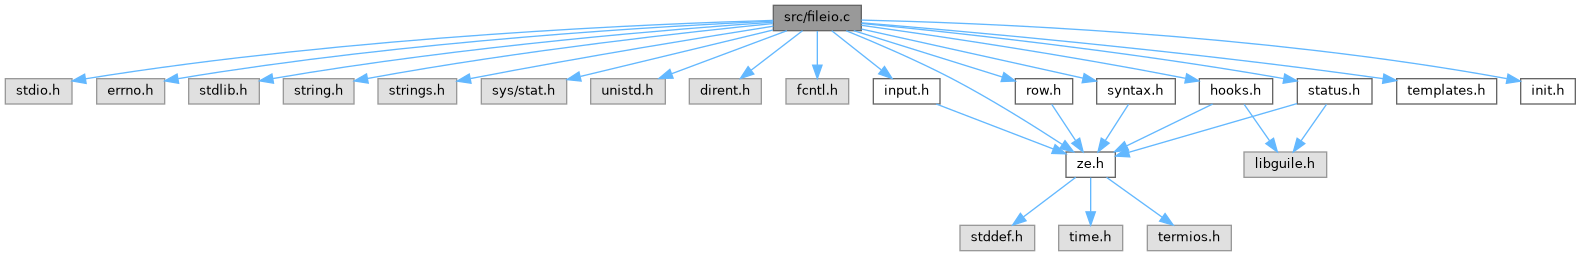
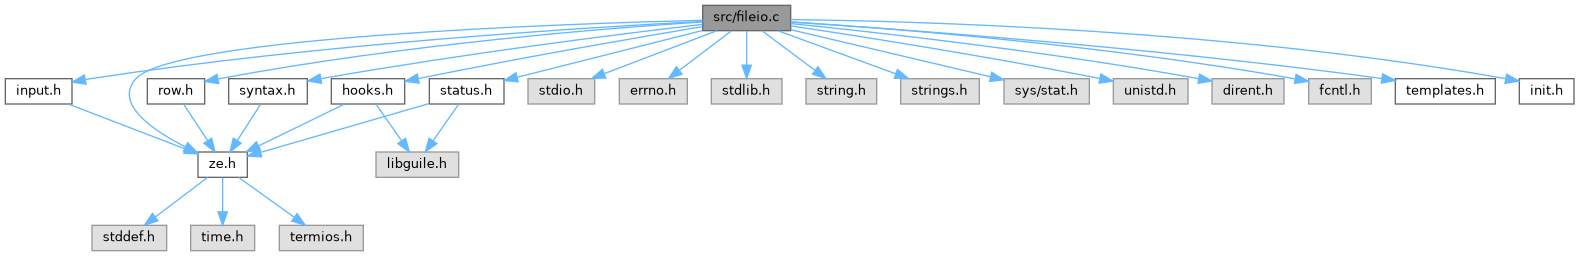
Update Doxygen docs [skip ci]

diff --git a/docs/plugins_8h_source.html b/docs/plugins_8h_source.html
@@ -126,41 +126,41 @@ $(document).ready(function() { init_codefold(0); });
 <div class="line"><a id="l00049" name="l00049"></a><span class="lineno">   49</span> </div>
 <div class="line"><a id="l00050" name="l00050"></a><span class="lineno">   50</span>SCM <a class="code hl_function" href="group__plugins.html#ga55ad8c5cfa0f6c6eb6870755911782b2">pluginsGetHook</a>(<span class="keyword">const</span> <span class="keywordtype">char</span> *name);</div>
 <div class="line"><a id="l00051" name="l00051"></a><span class="lineno">   51</span> </div>
-<div class="ttc" id="agroup__plugins_html_ga041060924a4b1414cf6c0e125d02b08d"><div class="ttname"><a href="group__plugins.html#ga041060924a4b1414cf6c0e125d02b08d">scmSetBufferDirty</a></div><div class="ttdeci">SCM scmSetBufferDirty(SCM bool_scm)</div><div class="ttdoc">Mark the current buffer dirty/clean.</div><div class="ttdef"><b>Definition</b> plugins.c:652</div></div>
-<div class="ttc" id="agroup__plugins_html_ga0607204678802489858c34b3e4862c46"><div class="ttname"><a href="group__plugins.html#ga0607204678802489858c34b3e4862c46">scmListBindings</a></div><div class="ttdeci">SCM scmListBindings(void)</div><div class="ttdoc">List all key bindings.</div><div class="ttdef"><b>Definition</b> plugins.c:621</div></div>
-<div class="ttc" id="agroup__plugins_html_ga0c41183a4c941f3e63462920444c932d"><div class="ttname"><a href="group__plugins.html#ga0c41183a4c941f3e63462920444c932d">loadPlugins</a></div><div class="ttdeci">void loadPlugins(void)</div><div class="ttdoc">Load Scheme plugins from &quot;$HOME/.ze/plugins&quot; (all .scm files).</div><div class="ttdef"><b>Definition</b> plugins.c:103</div></div>
-<div class="ttc" id="agroup__plugins_html_ga13b255733769c711c3ba2de6cb05fdf7"><div class="ttname"><a href="group__plugins.html#ga13b255733769c711c3ba2de6cb05fdf7">scmInsertNewline</a></div><div class="ttdeci">SCM scmInsertNewline(void)</div><div class="ttdoc">Insert a newline at the cursor position.</div><div class="ttdef"><b>Definition</b> plugins.c:367</div></div>
-<div class="ttc" id="agroup__plugins_html_ga17dcd73112f11fba64f052bea30524c0"><div class="ttname"><a href="group__plugins.html#ga17dcd73112f11fba64f052bea30524c0">scmRefreshScreen</a></div><div class="ttdeci">SCM scmRefreshScreen(void)</div><div class="ttdoc">Force a screen refresh.</div><div class="ttdef"><b>Definition</b> plugins.c:524</div></div>
-<div class="ttc" id="agroup__plugins_html_ga183ef2478133b2631c58a2381e036b2a"><div class="ttname"><a href="group__plugins.html#ga183ef2478133b2631c58a2381e036b2a">scmCloneTemplate</a></div><div class="ttdeci">SCM scmCloneTemplate(void)</div><div class="ttdoc">Clone a template into the current buffer (interactive selection).</div><div class="ttdef"><b>Definition</b> plugins.c:665</div></div>
-<div class="ttc" id="agroup__plugins_html_ga1edf3aea9100dc47ec938734b1b81a4a"><div class="ttname"><a href="group__plugins.html#ga1edf3aea9100dc47ec938734b1b81a4a">scmScreenSize</a></div><div class="ttdeci">SCM scmScreenSize(void)</div><div class="ttdoc">Get the editor screen size in rows and columns.</div><div class="ttdef"><b>Definition</b> plugins.c:441</div></div>
-<div class="ttc" id="agroup__plugins_html_ga231ec3ab638c187365338c11e8be381b"><div class="ttname"><a href="group__plugins.html#ga231ec3ab638c187365338c11e8be381b">scmPrompt</a></div><div class="ttdeci">SCM scmPrompt(SCM msg_scm)</div><div class="ttdoc">Prompt the user and return their input.</div><div class="ttdef"><b>Definition</b> plugins.c:508</div></div>
-<div class="ttc" id="agroup__plugins_html_ga2c36144573bc2bcce539f0df181507ea"><div class="ttname"><a href="group__plugins.html#ga2c36144573bc2bcce539f0df181507ea">scmInsertChar</a></div><div class="ttdeci">SCM scmInsertChar(SCM ch_scm)</div><div class="ttdoc">Insert a single character at the cursor.</div><div class="ttdef"><b>Definition</b> plugins.c:349</div></div>
-<div class="ttc" id="agroup__plugins_html_ga2c4d4c699c6bde194c2f057be465f8ee"><div class="ttname"><a href="group__plugins.html#ga2c4d4c699c6bde194c2f057be465f8ee">scmDeleteLine</a></div><div class="ttdeci">SCM scmDeleteLine(SCM idx_scm)</div><div class="ttdoc">Delete a line by index.</div><div class="ttdef"><b>Definition</b> plugins.c:318</div></div>
-<div class="ttc" id="agroup__plugins_html_ga310f0958617de3a98e9defba9f8ab526"><div class="ttname"><a href="group__plugins.html#ga310f0958617de3a98e9defba9f8ab526">scmGetFilename</a></div><div class="ttdeci">SCM scmGetFilename(void)</div><div class="ttdoc">Get the current filename, if any.</div><div class="ttdef"><b>Definition</b> plugins.c:478</div></div>
-<div class="ttc" id="agroup__plugins_html_ga33b71b39959b659f92fa10a9491ea598"><div class="ttname"><a href="group__plugins.html#ga33b71b39959b659f92fa10a9491ea598">scmSaveFile</a></div><div class="ttdeci">SCM scmSaveFile(void)</div><div class="ttdoc">Save the current buffer to disk.</div><div class="ttdef"><b>Definition</b> plugins.c:467</div></div>
-<div class="ttc" id="agroup__plugins_html_ga34a1e8f1812781918d98229fc7a76987"><div class="ttname"><a href="group__plugins.html#ga34a1e8f1812781918d98229fc7a76987">scmBufferDirty</a></div><div class="ttdeci">SCM scmBufferDirty(void)</div><div class="ttdoc">Check whether the current buffer has unsaved changes.</div><div class="ttdef"><b>Definition</b> plugins.c:641</div></div>
-<div class="ttc" id="agroup__plugins_html_ga3d7df946c05cbaf4d07dbf89ef6c1ffd"><div class="ttname"><a href="group__plugins.html#ga3d7df946c05cbaf4d07dbf89ef6c1ffd">scmInsertText</a></div><div class="ttdeci">SCM scmInsertText(SCM str_scm)</div><div class="ttdoc">Insert text at the cursor position, interpreting newlines.</div><div class="ttdef"><b>Definition</b> plugins.c:332</div></div>
-<div class="ttc" id="agroup__plugins_html_ga55ad8c5cfa0f6c6eb6870755911782b2"><div class="ttname"><a href="group__plugins.html#ga55ad8c5cfa0f6c6eb6870755911782b2">pluginsGetHook</a></div><div class="ttdeci">SCM pluginsGetHook(const char *name)</div><div class="ttdoc">Fetch a registered hook by name.</div><div class="ttdef"><b>Definition</b> plugins.c:46</div></div>
-<div class="ttc" id="agroup__plugins_html_ga5b19ed9dc86e9349aea7edb142707c85"><div class="ttname"><a href="group__plugins.html#ga5b19ed9dc86e9349aea7edb142707c85">scmGetCursor</a></div><div class="ttdeci">SCM scmGetCursor(void)</div><div class="ttdoc">Get current cursor position.</div><div class="ttdef"><b>Definition</b> plugins.c:391</div></div>
-<div class="ttc" id="agroup__plugins_html_ga67a6b5a73e98c291053d41270dc10410"><div class="ttname"><a href="group__plugins.html#ga67a6b5a73e98c291053d41270dc10410">scmDeleteChar</a></div><div class="ttdeci">SCM scmDeleteChar(void)</div><div class="ttdoc">Delete the character to the left of the cursor (backspace).</div><div class="ttdef"><b>Definition</b> plugins.c:378</div></div>
-<div class="ttc" id="agroup__plugins_html_ga70626d22f31d26519307f660719bc119"><div class="ttname"><a href="group__plugins.html#ga70626d22f31d26519307f660719bc119">scmSelectSyntaxForFilename</a></div><div class="ttdeci">SCM scmSelectSyntaxForFilename(SCM path_scm)</div><div class="ttdoc">Select syntax based on a filename, without opening the file.</div><div class="ttdef"><b>Definition</b> plugins.c:571</div></div>
-<div class="ttc" id="agroup__plugins_html_ga7136f43e2b0916468437bd7a90e3013a"><div class="ttname"><a href="group__plugins.html#ga7136f43e2b0916468437bd7a90e3013a">scmInsertLine</a></div><div class="ttdeci">SCM scmInsertLine(SCM idx_scm, SCM str_scm)</div><div class="ttdoc">Insert a new line at index.</div><div class="ttdef"><b>Definition</b> plugins.c:287</div></div>
-<div class="ttc" id="agroup__plugins_html_ga81a03f34f4c9c7c7dc62a6bcf4a83433"><div class="ttname"><a href="group__plugins.html#ga81a03f34f4c9c7c7dc62a6bcf4a83433">editorExec</a></div><div class="ttdeci">void editorExec(void)</div><div class="ttdoc">Prompt for and evaluate a single Scheme expression (mini-REPL).</div><div class="ttdef"><b>Definition</b> plugins.c:189</div></div>
-<div class="ttc" id="agroup__plugins_html_ga97dbf8cfed087644e55626ab597346db"><div class="ttname"><a href="group__plugins.html#ga97dbf8cfed087644e55626ab597346db">scmGetLine</a></div><div class="ttdeci">SCM scmGetLine(SCM idx_scm)</div><div class="ttdoc">Get the contents of a line by index.</div><div class="ttdef"><b>Definition</b> plugins.c:255</div></div>
-<div class="ttc" id="agroup__plugins_html_ga9a3b3ed20db9e516ca5ae1ca448a578e"><div class="ttname"><a href="group__plugins.html#ga9a3b3ed20db9e516ca5ae1ca448a578e">scmSetLine</a></div><div class="ttdeci">SCM scmSetLine(SCM idx_scm, SCM str_scm)</div><div class="ttdoc">Replace the contents of a line.</div><div class="ttdef"><b>Definition</b> plugins.c:270</div></div>
-<div class="ttc" id="agroup__plugins_html_gaa501599374f6c5187e4770a4b760c4ed"><div class="ttname"><a href="group__plugins.html#gaa501599374f6c5187e4770a4b760c4ed">scmUnbindKey</a></div><div class="ttdeci">SCM scmUnbindKey(SCM keySpec)</div><div class="ttdoc">Remove a key binding.</div><div class="ttdef"><b>Definition</b> plugins.c:602</div></div>
-<div class="ttc" id="agroup__plugins_html_gaa8b6e25318fa2cf14ea511928bc100c0"><div class="ttname"><a href="group__plugins.html#gaa8b6e25318fa2cf14ea511928bc100c0">scmGetFiletype</a></div><div class="ttdeci">SCM scmGetFiletype(void)</div><div class="ttdoc">Get the current filetype name from syntax highlighting.</div><div class="ttdef"><b>Definition</b> plugins.c:588</div></div>
-<div class="ttc" id="agroup__plugins_html_gaac9a1f510aed1700b69b7ee26008644e"><div class="ttname"><a href="group__plugins.html#gaac9a1f510aed1700b69b7ee26008644e">scmSetCursor</a></div><div class="ttdeci">SCM scmSetCursor(SCM x_scm, SCM y_scm)</div><div class="ttdoc">Set cursor position, clamped to the current buffer.</div><div class="ttdef"><b>Definition</b> plugins.c:405</div></div>
-<div class="ttc" id="agroup__plugins_html_gab22cf02cb210d5ac42ee7280cd84c626"><div class="ttname"><a href="group__plugins.html#gab22cf02cb210d5ac42ee7280cd84c626">scmBufferLineCount</a></div><div class="ttdeci">SCM scmBufferLineCount(void)</div><div class="ttdoc">Get the number of lines in the current buffer.</div><div class="ttdef"><b>Definition</b> plugins.c:244</div></div>
-<div class="ttc" id="agroup__plugins_html_gab6d3d4f4b9933a94daf1adcb0c7131f7"><div class="ttname"><a href="group__plugins.html#gab6d3d4f4b9933a94daf1adcb0c7131f7">scmSearchForward</a></div><div class="ttdeci">SCM scmSearchForward(SCM query_scm)</div><div class="ttdoc">Search forward for a substring and jump to the next match.</div><div class="ttdef"><b>Definition</b> plugins.c:538</div></div>
-<div class="ttc" id="agroup__plugins_html_gaca2d090eee1a15a36b8a986b7f7d14c9"><div class="ttname"><a href="group__plugins.html#gaca2d090eee1a15a36b8a986b7f7d14c9">scmAppendLine</a></div><div class="ttdeci">SCM scmAppendLine(SCM str_scm)</div><div class="ttdoc">Append a new line at the end of the buffer.</div><div class="ttdef"><b>Definition</b> plugins.c:304</div></div>
-<div class="ttc" id="agroup__plugins_html_gadcc5eb3464a4ddea9613f4b2e744f05b"><div class="ttname"><a href="group__plugins.html#gadcc5eb3464a4ddea9613f4b2e744f05b">scmSetFilename</a></div><div class="ttdeci">SCM scmSetFilename(SCM path_scm)</div><div class="ttdoc">Set the current filename and reselect syntax highlighting.</div><div class="ttdef"><b>Definition</b> plugins.c:490</div></div>
-<div class="ttc" id="agroup__plugins_html_gade7ce76f0f95afe9a6aa8f4547a2edd4"><div class="ttname"><a href="group__plugins.html#gade7ce76f0f95afe9a6aa8f4547a2edd4">scmOpenFile</a></div><div class="ttdeci">SCM scmOpenFile(SCM path_scm)</div><div class="ttdoc">Open a file into the editor.</div><div class="ttdef"><b>Definition</b> plugins.c:454</div></div>
-<div class="ttc" id="agroup__plugins_html_gadf73418325c779010cb9f90f6ed8b8ea"><div class="ttname"><a href="group__plugins.html#gadf73418325c779010cb9f90f6ed8b8ea">scmMoveCursor</a></div><div class="ttdeci">SCM scmMoveCursor(SCM dir_scm)</div><div class="ttdoc">Move the cursor in a direction.</div><div class="ttdef"><b>Definition</b> plugins.c:425</div></div>
-<div class="ttc" id="agroup__plugins_html_gae3a93a63cce39f220631f81e6d71c24e"><div class="ttname"><a href="group__plugins.html#gae3a93a63cce39f220631f81e6d71c24e">scmBufferToString</a></div><div class="ttdeci">SCM scmBufferToString(void)</div><div class="ttdoc">Return the entire buffer as a Scheme string.</div><div class="ttdef"><b>Definition</b> plugins.c:229</div></div>
-<div class="ttc" id="agroup__plugins_html_gae57a724800e6a1a17db4da6ddd2e4722"><div class="ttname"><a href="group__plugins.html#gae57a724800e6a1a17db4da6ddd2e4722">scmBindKey</a></div><div class="ttdeci">SCM scmBindKey(SCM keySpec, SCM proc)</div><div class="ttdoc">Bind a key specification to a Scheme procedure.</div><div class="ttdef"><b>Definition</b> plugins.c:138</div></div>
-<div class="ttc" id="agroup__plugins_html_gaf2c717f60b190173e56454ae476a4cf5"><div class="ttname"><a href="group__plugins.html#gaf2c717f60b190173e56454ae476a4cf5">initKeyBindings</a></div><div class="ttdeci">void initKeyBindings(void)</div><div class="ttdoc">Initialize the in-memory key binding table.</div><div class="ttdef"><b>Definition</b> plugins.c:92</div></div>
-<div class="ttc" id="agroup__plugins_html_gaf8a22c5f040f52588b876ddefd6ddd1a"><div class="ttname"><a href="group__plugins.html#gaf8a22c5f040f52588b876ddefd6ddd1a">pluginsHandleKey</a></div><div class="ttdeci">int pluginsHandleKey(unsigned char code)</div><div class="ttdoc">If a Scheme binding exists for the key, invoke it.</div><div class="ttdef"><b>Definition</b> plugins.c:79</div></div>
+<div class="ttc" id="agroup__plugins_html_ga041060924a4b1414cf6c0e125d02b08d"><div class="ttname"><a href="group__plugins.html#ga041060924a4b1414cf6c0e125d02b08d">scmSetBufferDirty</a></div><div class="ttdeci">SCM scmSetBufferDirty(SCM bool_scm)</div><div class="ttdoc">Mark the current buffer dirty/clean.</div><div class="ttdef"><b>Definition</b> plugins.c:651</div></div>
+<div class="ttc" id="agroup__plugins_html_ga0607204678802489858c34b3e4862c46"><div class="ttname"><a href="group__plugins.html#ga0607204678802489858c34b3e4862c46">scmListBindings</a></div><div class="ttdeci">SCM scmListBindings(void)</div><div class="ttdoc">List all key bindings.</div><div class="ttdef"><b>Definition</b> plugins.c:620</div></div>
+<div class="ttc" id="agroup__plugins_html_ga0c41183a4c941f3e63462920444c932d"><div class="ttname"><a href="group__plugins.html#ga0c41183a4c941f3e63462920444c932d">loadPlugins</a></div><div class="ttdeci">void loadPlugins(void)</div><div class="ttdoc">Load Scheme plugins from &quot;$HOME/.ze/plugins&quot; (all .scm files).</div><div class="ttdef"><b>Definition</b> plugins.c:102</div></div>
+<div class="ttc" id="agroup__plugins_html_ga13b255733769c711c3ba2de6cb05fdf7"><div class="ttname"><a href="group__plugins.html#ga13b255733769c711c3ba2de6cb05fdf7">scmInsertNewline</a></div><div class="ttdeci">SCM scmInsertNewline(void)</div><div class="ttdoc">Insert a newline at the cursor position.</div><div class="ttdef"><b>Definition</b> plugins.c:366</div></div>
+<div class="ttc" id="agroup__plugins_html_ga17dcd73112f11fba64f052bea30524c0"><div class="ttname"><a href="group__plugins.html#ga17dcd73112f11fba64f052bea30524c0">scmRefreshScreen</a></div><div class="ttdeci">SCM scmRefreshScreen(void)</div><div class="ttdoc">Force a screen refresh.</div><div class="ttdef"><b>Definition</b> plugins.c:523</div></div>
+<div class="ttc" id="agroup__plugins_html_ga183ef2478133b2631c58a2381e036b2a"><div class="ttname"><a href="group__plugins.html#ga183ef2478133b2631c58a2381e036b2a">scmCloneTemplate</a></div><div class="ttdeci">SCM scmCloneTemplate(void)</div><div class="ttdoc">Clone a template into the current buffer (interactive selection).</div><div class="ttdef"><b>Definition</b> plugins.c:664</div></div>
+<div class="ttc" id="agroup__plugins_html_ga1edf3aea9100dc47ec938734b1b81a4a"><div class="ttname"><a href="group__plugins.html#ga1edf3aea9100dc47ec938734b1b81a4a">scmScreenSize</a></div><div class="ttdeci">SCM scmScreenSize(void)</div><div class="ttdoc">Get the editor screen size in rows and columns.</div><div class="ttdef"><b>Definition</b> plugins.c:440</div></div>
+<div class="ttc" id="agroup__plugins_html_ga231ec3ab638c187365338c11e8be381b"><div class="ttname"><a href="group__plugins.html#ga231ec3ab638c187365338c11e8be381b">scmPrompt</a></div><div class="ttdeci">SCM scmPrompt(SCM msg_scm)</div><div class="ttdoc">Prompt the user and return their input.</div><div class="ttdef"><b>Definition</b> plugins.c:507</div></div>
+<div class="ttc" id="agroup__plugins_html_ga2c36144573bc2bcce539f0df181507ea"><div class="ttname"><a href="group__plugins.html#ga2c36144573bc2bcce539f0df181507ea">scmInsertChar</a></div><div class="ttdeci">SCM scmInsertChar(SCM ch_scm)</div><div class="ttdoc">Insert a single character at the cursor.</div><div class="ttdef"><b>Definition</b> plugins.c:348</div></div>
+<div class="ttc" id="agroup__plugins_html_ga2c4d4c699c6bde194c2f057be465f8ee"><div class="ttname"><a href="group__plugins.html#ga2c4d4c699c6bde194c2f057be465f8ee">scmDeleteLine</a></div><div class="ttdeci">SCM scmDeleteLine(SCM idx_scm)</div><div class="ttdoc">Delete a line by index.</div><div class="ttdef"><b>Definition</b> plugins.c:317</div></div>
+<div class="ttc" id="agroup__plugins_html_ga310f0958617de3a98e9defba9f8ab526"><div class="ttname"><a href="group__plugins.html#ga310f0958617de3a98e9defba9f8ab526">scmGetFilename</a></div><div class="ttdeci">SCM scmGetFilename(void)</div><div class="ttdoc">Get the current filename, if any.</div><div class="ttdef"><b>Definition</b> plugins.c:477</div></div>
+<div class="ttc" id="agroup__plugins_html_ga33b71b39959b659f92fa10a9491ea598"><div class="ttname"><a href="group__plugins.html#ga33b71b39959b659f92fa10a9491ea598">scmSaveFile</a></div><div class="ttdeci">SCM scmSaveFile(void)</div><div class="ttdoc">Save the current buffer to disk.</div><div class="ttdef"><b>Definition</b> plugins.c:466</div></div>
+<div class="ttc" id="agroup__plugins_html_ga34a1e8f1812781918d98229fc7a76987"><div class="ttname"><a href="group__plugins.html#ga34a1e8f1812781918d98229fc7a76987">scmBufferDirty</a></div><div class="ttdeci">SCM scmBufferDirty(void)</div><div class="ttdoc">Check whether the current buffer has unsaved changes.</div><div class="ttdef"><b>Definition</b> plugins.c:640</div></div>
+<div class="ttc" id="agroup__plugins_html_ga3d7df946c05cbaf4d07dbf89ef6c1ffd"><div class="ttname"><a href="group__plugins.html#ga3d7df946c05cbaf4d07dbf89ef6c1ffd">scmInsertText</a></div><div class="ttdeci">SCM scmInsertText(SCM str_scm)</div><div class="ttdoc">Insert text at the cursor position, interpreting newlines.</div><div class="ttdef"><b>Definition</b> plugins.c:331</div></div>
+<div class="ttc" id="agroup__plugins_html_ga55ad8c5cfa0f6c6eb6870755911782b2"><div class="ttname"><a href="group__plugins.html#ga55ad8c5cfa0f6c6eb6870755911782b2">pluginsGetHook</a></div><div class="ttdeci">SCM pluginsGetHook(const char *name)</div><div class="ttdoc">Fetch a registered hook by name.</div><div class="ttdef"><b>Definition</b> plugins.c:45</div></div>
+<div class="ttc" id="agroup__plugins_html_ga5b19ed9dc86e9349aea7edb142707c85"><div class="ttname"><a href="group__plugins.html#ga5b19ed9dc86e9349aea7edb142707c85">scmGetCursor</a></div><div class="ttdeci">SCM scmGetCursor(void)</div><div class="ttdoc">Get current cursor position.</div><div class="ttdef"><b>Definition</b> plugins.c:390</div></div>
+<div class="ttc" id="agroup__plugins_html_ga67a6b5a73e98c291053d41270dc10410"><div class="ttname"><a href="group__plugins.html#ga67a6b5a73e98c291053d41270dc10410">scmDeleteChar</a></div><div class="ttdeci">SCM scmDeleteChar(void)</div><div class="ttdoc">Delete the character to the left of the cursor (backspace).</div><div class="ttdef"><b>Definition</b> plugins.c:377</div></div>
+<div class="ttc" id="agroup__plugins_html_ga70626d22f31d26519307f660719bc119"><div class="ttname"><a href="group__plugins.html#ga70626d22f31d26519307f660719bc119">scmSelectSyntaxForFilename</a></div><div class="ttdeci">SCM scmSelectSyntaxForFilename(SCM path_scm)</div><div class="ttdoc">Select syntax based on a filename, without opening the file.</div><div class="ttdef"><b>Definition</b> plugins.c:570</div></div>
+<div class="ttc" id="agroup__plugins_html_ga7136f43e2b0916468437bd7a90e3013a"><div class="ttname"><a href="group__plugins.html#ga7136f43e2b0916468437bd7a90e3013a">scmInsertLine</a></div><div class="ttdeci">SCM scmInsertLine(SCM idx_scm, SCM str_scm)</div><div class="ttdoc">Insert a new line at index.</div><div class="ttdef"><b>Definition</b> plugins.c:286</div></div>
+<div class="ttc" id="agroup__plugins_html_ga81a03f34f4c9c7c7dc62a6bcf4a83433"><div class="ttname"><a href="group__plugins.html#ga81a03f34f4c9c7c7dc62a6bcf4a83433">editorExec</a></div><div class="ttdeci">void editorExec(void)</div><div class="ttdoc">Prompt for and evaluate a single Scheme expression (mini-REPL).</div><div class="ttdef"><b>Definition</b> plugins.c:188</div></div>
+<div class="ttc" id="agroup__plugins_html_ga97dbf8cfed087644e55626ab597346db"><div class="ttname"><a href="group__plugins.html#ga97dbf8cfed087644e55626ab597346db">scmGetLine</a></div><div class="ttdeci">SCM scmGetLine(SCM idx_scm)</div><div class="ttdoc">Get the contents of a line by index.</div><div class="ttdef"><b>Definition</b> plugins.c:254</div></div>
+<div class="ttc" id="agroup__plugins_html_ga9a3b3ed20db9e516ca5ae1ca448a578e"><div class="ttname"><a href="group__plugins.html#ga9a3b3ed20db9e516ca5ae1ca448a578e">scmSetLine</a></div><div class="ttdeci">SCM scmSetLine(SCM idx_scm, SCM str_scm)</div><div class="ttdoc">Replace the contents of a line.</div><div class="ttdef"><b>Definition</b> plugins.c:269</div></div>
+<div class="ttc" id="agroup__plugins_html_gaa501599374f6c5187e4770a4b760c4ed"><div class="ttname"><a href="group__plugins.html#gaa501599374f6c5187e4770a4b760c4ed">scmUnbindKey</a></div><div class="ttdeci">SCM scmUnbindKey(SCM keySpec)</div><div class="ttdoc">Remove a key binding.</div><div class="ttdef"><b>Definition</b> plugins.c:601</div></div>
+<div class="ttc" id="agroup__plugins_html_gaa8b6e25318fa2cf14ea511928bc100c0"><div class="ttname"><a href="group__plugins.html#gaa8b6e25318fa2cf14ea511928bc100c0">scmGetFiletype</a></div><div class="ttdeci">SCM scmGetFiletype(void)</div><div class="ttdoc">Get the current filetype name from syntax highlighting.</div><div class="ttdef"><b>Definition</b> plugins.c:587</div></div>
+<div class="ttc" id="agroup__plugins_html_gaac9a1f510aed1700b69b7ee26008644e"><div class="ttname"><a href="group__plugins.html#gaac9a1f510aed1700b69b7ee26008644e">scmSetCursor</a></div><div class="ttdeci">SCM scmSetCursor(SCM x_scm, SCM y_scm)</div><div class="ttdoc">Set cursor position, clamped to the current buffer.</div><div class="ttdef"><b>Definition</b> plugins.c:404</div></div>
+<div class="ttc" id="agroup__plugins_html_gab22cf02cb210d5ac42ee7280cd84c626"><div class="ttname"><a href="group__plugins.html#gab22cf02cb210d5ac42ee7280cd84c626">scmBufferLineCount</a></div><div class="ttdeci">SCM scmBufferLineCount(void)</div><div class="ttdoc">Get the number of lines in the current buffer.</div><div class="ttdef"><b>Definition</b> plugins.c:243</div></div>
+<div class="ttc" id="agroup__plugins_html_gab6d3d4f4b9933a94daf1adcb0c7131f7"><div class="ttname"><a href="group__plugins.html#gab6d3d4f4b9933a94daf1adcb0c7131f7">scmSearchForward</a></div><div class="ttdeci">SCM scmSearchForward(SCM query_scm)</div><div class="ttdoc">Search forward for a substring and jump to the next match.</div><div class="ttdef"><b>Definition</b> plugins.c:537</div></div>
+<div class="ttc" id="agroup__plugins_html_gaca2d090eee1a15a36b8a986b7f7d14c9"><div class="ttname"><a href="group__plugins.html#gaca2d090eee1a15a36b8a986b7f7d14c9">scmAppendLine</a></div><div class="ttdeci">SCM scmAppendLine(SCM str_scm)</div><div class="ttdoc">Append a new line at the end of the buffer.</div><div class="ttdef"><b>Definition</b> plugins.c:303</div></div>
+<div class="ttc" id="agroup__plugins_html_gadcc5eb3464a4ddea9613f4b2e744f05b"><div class="ttname"><a href="group__plugins.html#gadcc5eb3464a4ddea9613f4b2e744f05b">scmSetFilename</a></div><div class="ttdeci">SCM scmSetFilename(SCM path_scm)</div><div class="ttdoc">Set the current filename and reselect syntax highlighting.</div><div class="ttdef"><b>Definition</b> plugins.c:489</div></div>
+<div class="ttc" id="agroup__plugins_html_gade7ce76f0f95afe9a6aa8f4547a2edd4"><div class="ttname"><a href="group__plugins.html#gade7ce76f0f95afe9a6aa8f4547a2edd4">scmOpenFile</a></div><div class="ttdeci">SCM scmOpenFile(SCM path_scm)</div><div class="ttdoc">Open a file into the editor.</div><div class="ttdef"><b>Definition</b> plugins.c:453</div></div>
+<div class="ttc" id="agroup__plugins_html_gadf73418325c779010cb9f90f6ed8b8ea"><div class="ttname"><a href="group__plugins.html#gadf73418325c779010cb9f90f6ed8b8ea">scmMoveCursor</a></div><div class="ttdeci">SCM scmMoveCursor(SCM dir_scm)</div><div class="ttdoc">Move the cursor in a direction.</div><div class="ttdef"><b>Definition</b> plugins.c:424</div></div>
+<div class="ttc" id="agroup__plugins_html_gae3a93a63cce39f220631f81e6d71c24e"><div class="ttname"><a href="group__plugins.html#gae3a93a63cce39f220631f81e6d71c24e">scmBufferToString</a></div><div class="ttdeci">SCM scmBufferToString(void)</div><div class="ttdoc">Return the entire buffer as a Scheme string.</div><div class="ttdef"><b>Definition</b> plugins.c:228</div></div>
+<div class="ttc" id="agroup__plugins_html_gae57a724800e6a1a17db4da6ddd2e4722"><div class="ttname"><a href="group__plugins.html#gae57a724800e6a1a17db4da6ddd2e4722">scmBindKey</a></div><div class="ttdeci">SCM scmBindKey(SCM keySpec, SCM proc)</div><div class="ttdoc">Bind a key specification to a Scheme procedure.</div><div class="ttdef"><b>Definition</b> plugins.c:137</div></div>
+<div class="ttc" id="agroup__plugins_html_gaf2c717f60b190173e56454ae476a4cf5"><div class="ttname"><a href="group__plugins.html#gaf2c717f60b190173e56454ae476a4cf5">initKeyBindings</a></div><div class="ttdeci">void initKeyBindings(void)</div><div class="ttdoc">Initialize the in-memory key binding table.</div><div class="ttdef"><b>Definition</b> plugins.c:91</div></div>
+<div class="ttc" id="agroup__plugins_html_gaf8a22c5f040f52588b876ddefd6ddd1a"><div class="ttname"><a href="group__plugins.html#gaf8a22c5f040f52588b876ddefd6ddd1a">pluginsHandleKey</a></div><div class="ttdeci">int pluginsHandleKey(unsigned char code)</div><div class="ttdoc">If a Scheme binding exists for the key, invoke it.</div><div class="ttdef"><b>Definition</b> plugins.c:78</div></div>
 <div class="ttc" id="aze_8h_html"><div class="ttname"><a href="ze_8h.html">ze.h</a></div><div class="ttdoc">Core editor types, macros, and global state.</div></div>
 </div><!-- fragment --></div><!-- contents -->
 <!-- start footer part -->

diff --git a/docs/plugins_8c.html b/docs/plugins_8c.html
@@ -82,7 +82,8 @@ $(function() {
 
 <p>Guile/Scheme plugin and keybinding implementation.  
 <a href="#details">More...</a></p>
-<div class="textblock"><code>#include &lt;dirent.h&gt;</code><br />
+<div class="textblock"><code>#include &quot;<a class="el" href="ze_8h_source.html">ze.h</a>&quot;</code><br />
+<code>#include &lt;dirent.h&gt;</code><br />
 <code>#include &lt;ctype.h&gt;</code><br />
 <code>#include &lt;stdio.h&gt;</code><br />
 <code>#include &lt;limits.h&gt;</code><br />
@@ -90,7 +91,6 @@ $(function() {
 <code>#include &lt;string.h&gt;</code><br />
 <code>#include &lt;sys/stat.h&gt;</code><br />
 <code>#include &lt;libguile.h&gt;</code><br />
-<code>#include &quot;<a class="el" href="ze_8h_source.html">ze.h</a>&quot;</code><br />
 <code>#include &quot;<a class="el" href="status_8h_source.html">status.h</a>&quot;</code><br />
 <code>#include &quot;<a class="el" href="input_8h_source.html">input.h</a>&quot;</code><br />
 <code>#include &quot;<a class="el" href="row_8h_source.html">row.h</a>&quot;</code><br />
@@ -103,55 +103,55 @@ Include dependency graph for plugins.c:</div>
 <div class="dyncontent">
 <div class="center"><img src="plugins_8c__incl.png" border="0" usemap="#asrc_2plugins_8c" alt=""/></div>
 <map name="asrc_2plugins_8c" id="asrc_2plugins_8c">
-<area shape="rect" title="Guile/Scheme plugin and keybinding implementation." alt="" coords="682,5,785,31"/>
-<area shape="rect" title=" " alt="" coords="5,79,77,104"/>
-<area shape="poly" title=" " alt="" coords="682,24,431,41,264,58,91,81,90,76,263,53,431,36,682,19"/>
-<area shape="rect" title=" " alt="" coords="102,79,173,104"/>
-<area shape="poly" title=" " alt="" coords="682,25,470,44,331,60,187,81,186,76,330,55,469,39,681,20"/>
-<area shape="rect" title=" " alt="" coords="197,79,264,104"/>
-<area shape="poly" title=" " alt="" coords="682,27,507,46,278,81,277,76,506,41,682,21"/>
-<area shape="rect" title=" " alt="" coords="289,79,359,104"/>
-<area shape="poly" title=" " alt="" coords="682,29,546,50,373,81,372,76,545,45,681,24"/>
-<area shape="rect" title=" " alt="" coords="383,79,454,104"/>
-<area shape="poly" title=" " alt="" coords="682,33,468,81,467,76,681,28"/>
-<area shape="rect" title=" " alt="" coords="478,79,549,104"/>
-<area shape="poly" title=" " alt="" coords="699,33,562,77,561,72,697,28"/>
-<area shape="rect" title=" " alt="" coords="573,79,659,104"/>
-<area shape="poly" title=" " alt="" coords="716,33,648,74,646,69,713,28"/>
-<area shape="rect" title=" " alt="" coords="692,152,775,177"/>
-<area shape="poly" title=" " alt="" coords="733,31,726,64,724,104,730,138,724,139,719,104,720,63,727,30"/>
-<area shape="rect" href="ze_8h.html" title="Core editor types, macros, and global state." alt="" coords="1019,152,1069,177"/>
-<area shape="poly" title=" " alt="" coords="751,29,803,63,872,102,943,130,1007,150,1005,156,941,135,870,106,800,68,748,33"/>
-<area shape="rect" href="status_8h.html" title="Status/message bar helpers and Scheme binding." alt="" coords="733,79,808,104"/>
-<area shape="poly" title=" " alt="" coords="742,30,761,65,756,68,737,32"/>
-<area shape="rect" href="input_8h.html" title="User input handling (prompt, cursor movement, key processing)." alt="" coords="883,79,949,104"/>
-<area shape="poly" title=" " alt="" coords="764,28,874,71,872,76,762,33"/>
-<area shape="rect" href="row_8h.html" title="Row data structure manipulation and conversions." alt="" coords="974,79,1031,104"/>
-<area shape="poly" title=" " alt="" coords="779,28,962,76,960,81,777,33"/>
-<area shape="rect" href="edit_8h.html" title="Editing primitives (insert/delete/newline) operating on the buffer." alt="" coords="1056,79,1115,104"/>
-<area shape="poly" title=" " alt="" coords="785,25,899,46,1043,76,1042,81,898,52,785,31"/>
-<area shape="rect" href="fileio_8h.html" title="File and directory loading/saving utilities." alt="" coords="1139,79,1205,104"/>
-<area shape="poly" title=" " alt="" coords="786,23,934,43,1126,76,1125,81,934,49,785,28"/>
-<area shape="rect" href="render_8h.html" title="Rendering of the editor buffer and UI components to the terminal." alt="" coords="1333,79,1408,104"/>
-<area shape="poly" title=" " alt="" coords="785,20,1013,38,1164,54,1320,76,1319,81,1163,59,1013,43,785,25"/>
-<area shape="rect" href="syntax_8h.html" title="Syntax highlighting engine and language selection." alt="" coords="1230,79,1309,104"/>
-<area shape="poly" title=" " alt="" coords="785,21,971,41,1217,76,1216,81,971,47,784,27"/>
-<area shape="rect" title=" " alt="" coords="913,225,988,251"/>
-<area shape="poly" title=" " alt="" coords="1031,179,978,219,975,215,1027,175"/>
-<area shape="rect" title=" " alt="" coords="1012,225,1076,251"/>
-<area shape="poly" title=" " alt="" coords="1047,178,1047,212,1041,212,1041,178"/>
-<area shape="rect" title=" " alt="" coords="1101,225,1185,251"/>
-<area shape="poly" title=" " alt="" coords="1061,175,1117,215,1114,219,1058,180"/>
-<area shape="poly" title=" " alt="" coords="767,106,748,141,743,139,762,103"/>
-<area shape="poly" title=" " alt="" coords="809,100,1007,151,1006,156,807,105"/>
-<area shape="poly" title=" " alt="" coords="938,102,1012,143,1010,147,935,106"/>
-<area shape="poly" title=" " alt="" coords="1012,103,1033,139,1028,141,1007,106"/>
-<area shape="poly" title=" " alt="" coords="1081,106,1060,141,1055,139,1076,103"/>
-<area shape="poly" title=" " alt="" coords="1153,106,1078,147,1076,143,1150,102"/>
-<area shape="poly" title=" " alt="" coords="1334,104,1322,107,1083,158,1081,153,1321,101,1332,99"/>
-<area shape="rect" href="buffer_8h.html" title="Simple append&#45;only string buffer used for terminal drawing." alt="" coords="1335,152,1406,177"/>
-<area shape="poly" title=" " alt="" coords="1373,104,1373,138,1368,138,1368,104"/>
-<area shape="poly" title=" " alt="" coords="1234,107,1083,154,1081,149,1232,101"/>
+<area shape="rect" title="Guile/Scheme plugin and keybinding implementation." alt="" coords="634,5,737,31"/>
+<area shape="rect" href="ze_8h.html" title="Core editor types, macros, and global state." alt="" coords="1017,152,1066,177"/>
+<area shape="poly" title=" " alt="" coords="737,16,791,19,855,29,920,47,982,76,1012,106,1033,138,1029,141,1008,109,979,81,919,52,854,34,791,25,737,21"/>
+<area shape="rect" title=" " alt="" coords="23,79,95,104"/>
+<area shape="poly" title=" " alt="" coords="634,25,410,43,262,59,109,81,108,76,261,54,409,38,634,20"/>
+<area shape="rect" title=" " alt="" coords="120,79,190,104"/>
+<area shape="poly" title=" " alt="" coords="635,26,449,46,204,81,203,76,448,41,634,21"/>
+<area shape="rect" title=" " alt="" coords="215,79,282,104"/>
+<area shape="poly" title=" " alt="" coords="634,28,486,49,296,81,295,76,485,43,634,23"/>
+<area shape="rect" title=" " alt="" coords="306,79,377,104"/>
+<area shape="poly" title=" " alt="" coords="634,32,391,81,390,76,633,26"/>
+<area shape="rect" title=" " alt="" coords="401,79,472,104"/>
+<area shape="poly" title=" " alt="" coords="646,33,486,79,484,74,645,28"/>
+<area shape="rect" title=" " alt="" coords="496,79,566,104"/>
+<area shape="poly" title=" " alt="" coords="662,33,570,75,568,70,660,28"/>
+<area shape="rect" title=" " alt="" coords="591,79,676,104"/>
+<area shape="poly" title=" " alt="" coords="679,33,652,69,648,66,675,29"/>
+<area shape="rect" title=" " alt="" coords="320,152,403,177"/>
+<area shape="poly" title=" " alt="" coords="634,23,479,26,282,36,105,53,44,66,24,73,13,80,8,91,13,102,32,117,61,129,140,146,228,155,307,160,306,165,228,161,139,151,59,134,29,121,9,106,3,91,9,77,22,68,43,61,104,48,281,30,479,21,634,17"/>
+<area shape="rect" href="status_8h.html" title="Status/message bar helpers and Scheme binding." alt="" coords="700,79,775,104"/>
+<area shape="poly" title=" " alt="" coords="696,29,723,66,719,69,692,33"/>
+<area shape="rect" href="input_8h.html" title="User input handling (prompt, cursor movement, key processing)." alt="" coords="1044,79,1111,104"/>
+<area shape="poly" title=" " alt="" coords="737,25,1026,76,1031,77,1030,82,1025,81,737,30"/>
+<area shape="rect" href="row_8h.html" title="Row data structure manipulation and conversions." alt="" coords="1136,79,1193,104"/>
+<area shape="poly" title=" " alt="" coords="737,21,905,41,1012,56,1123,76,1122,82,1011,62,904,46,737,27"/>
+<area shape="rect" href="edit_8h.html" title="Editing primitives (insert/delete/newline) operating on the buffer." alt="" coords="1218,79,1276,104"/>
+<area shape="poly" title=" " alt="" coords="738,20,939,38,1069,54,1204,76,1204,81,1068,59,938,43,737,25"/>
+<area shape="rect" href="fileio_8h.html" title="File and directory loading/saving utilities." alt="" coords="799,79,866,104"/>
+<area shape="poly" title=" " alt="" coords="710,28,797,70,795,75,708,33"/>
+<area shape="rect" href="render_8h.html" title="Rendering of the editor buffer and UI components to the terminal." alt="" coords="1300,79,1375,104"/>
+<area shape="poly" title=" " alt="" coords="737,20,971,37,1127,54,1287,76,1286,81,1126,59,971,43,737,25"/>
+<area shape="rect" href="syntax_8h.html" title="Syntax highlighting engine and language selection." alt="" coords="890,79,969,104"/>
+<area shape="poly" title=" " alt="" coords="726,28,878,72,876,77,724,33"/>
+<area shape="rect" title=" " alt="" coords="911,225,986,251"/>
+<area shape="poly" title=" " alt="" coords="1028,179,976,219,973,215,1025,175"/>
+<area shape="rect" title=" " alt="" coords="1010,225,1074,251"/>
+<area shape="poly" title=" " alt="" coords="1044,178,1044,212,1039,212,1039,178"/>
+<area shape="rect" title=" " alt="" coords="1098,225,1182,251"/>
+<area shape="poly" title=" " alt="" coords="1059,175,1115,215,1112,219,1056,180"/>
+<area shape="poly" title=" " alt="" coords="776,99,1004,152,1003,157,775,104"/>
+<area shape="poly" title=" " alt="" coords="701,104,689,107,417,157,416,152,688,101,699,99"/>
+<area shape="poly" title=" " alt="" coords="1074,106,1056,141,1051,138,1069,103"/>
+<area shape="poly" title=" " alt="" coords="1146,106,1075,147,1072,143,1143,102"/>
+<area shape="poly" title=" " alt="" coords="1218,105,1080,153,1079,148,1217,100"/>
+<area shape="poly" title=" " alt="" coords="867,101,1005,148,1003,153,865,107"/>
+<area shape="poly" title=" " alt="" coords="1301,104,1080,157,1079,152,1300,99"/>
+<area shape="rect" href="buffer_8h.html" title="Simple append&#45;only string buffer used for terminal drawing." alt="" coords="1302,152,1373,177"/>
+<area shape="poly" title=" " alt="" coords="1340,104,1340,138,1335,138,1335,104"/>
+<area shape="poly" title=" " alt="" coords="949,102,1013,142,1010,147,946,106"/>
 </map>
 </div>
 </div><table class="memberdecls">

diff --git a/docs/fileio_8c.html b/docs/fileio_8c.html
@@ -82,7 +82,8 @@ $(function() {
 
 <p>File and directory loading/saving implementation.  
 <a href="#details">More...</a></p>
-<div class="textblock"><code>#include &lt;stdio.h&gt;</code><br />
+<div class="textblock"><code>#include &quot;<a class="el" href="ze_8h_source.html">ze.h</a>&quot;</code><br />
+<code>#include &lt;stdio.h&gt;</code><br />
 <code>#include &lt;errno.h&gt;</code><br />
 <code>#include &lt;stdlib.h&gt;</code><br />
 <code>#include &lt;string.h&gt;</code><br />
@@ -91,7 +92,6 @@ $(function() {
 <code>#include &lt;unistd.h&gt;</code><br />
 <code>#include &lt;dirent.h&gt;</code><br />
 <code>#include &lt;fcntl.h&gt;</code><br />
-<code>#include &quot;<a class="el" href="ze_8h_source.html">ze.h</a>&quot;</code><br />
 <code>#include &quot;<a class="el" href="row_8h_source.html">row.h</a>&quot;</code><br />
 <code>#include &quot;<a class="el" href="status_8h_source.html">status.h</a>&quot;</code><br />
 <code>#include &quot;<a class="el" href="syntax_8h_source.html">syntax.h</a>&quot;</code><br />
@@ -104,55 +104,55 @@ Include dependency graph for fileio.c:</div>
 <div class="dyncontent">
 <div class="center"><img src="fileio_8c__incl.png" border="0" usemap="#asrc_2fileio_8c" alt=""/></div>
 <map name="asrc_2fileio_8c" id="asrc_2fileio_8c">
-<area shape="rect" title="File and directory loading/saving implementation." alt="" coords="773,5,861,31"/>
-<area shape="rect" title=" " alt="" coords="5,79,72,104"/>
-<area shape="poly" title=" " alt="" coords="773,23,488,37,291,55,86,81,85,76,290,49,487,32,773,18"/>
-<area shape="rect" title=" " alt="" coords="97,79,165,104"/>
-<area shape="poly" title=" " alt="" coords="773,24,524,40,354,57,178,81,178,76,354,51,523,35,773,18"/>
-<area shape="rect" title=" " alt="" coords="189,79,259,104"/>
-<area shape="poly" title=" " alt="" coords="773,25,561,43,420,59,273,81,272,76,419,54,561,38,773,20"/>
-<area shape="rect" title=" " alt="" coords="283,79,354,104"/>
-<area shape="poly" title=" " alt="" coords="773,26,599,46,368,81,367,76,599,41,773,21"/>
-<area shape="rect" title=" " alt="" coords="378,79,457,104"/>
-<area shape="poly" title=" " alt="" coords="774,29,471,81,470,76,773,24"/>
-<area shape="rect" title=" " alt="" coords="481,79,567,104"/>
-<area shape="poly" title=" " alt="" coords="773,33,581,79,580,74,772,27"/>
-<area shape="rect" title=" " alt="" coords="591,79,665,104"/>
-<area shape="poly" title=" " alt="" coords="788,33,673,76,671,71,786,28"/>
-<area shape="rect" title=" " alt="" coords="689,79,761,104"/>
-<area shape="poly" title=" " alt="" coords="804,33,753,72,749,68,801,29"/>
-<area shape="rect" title=" " alt="" coords="786,79,849,104"/>
-<area shape="poly" title=" " alt="" coords="820,31,820,65,815,65,815,31"/>
-<area shape="rect" href="ze_8h.html" title="Core editor types, macros, and global state." alt="" coords="1066,152,1115,177"/>
-<area shape="poly" title=" " alt="" coords="847,28,953,76,1063,142,1061,147,951,81,845,33"/>
-<area shape="rect" href="row_8h.html" title="Row data structure manipulation and conversions." alt="" coords="1015,79,1073,104"/>
-<area shape="poly" title=" " alt="" coords="855,28,1003,74,1001,80,853,33"/>
-<area shape="rect" href="status_8h.html" title="Status/message bar helpers and Scheme binding." alt="" coords="1297,79,1372,104"/>
-<area shape="poly" title=" " alt="" coords="862,21,1042,41,1284,76,1283,81,1042,46,861,26"/>
-<area shape="rect" href="syntax_8h.html" title="Syntax highlighting engine and language selection." alt="" coords="1097,79,1175,104"/>
-<area shape="poly" title=" " alt="" coords="862,26,1084,76,1082,81,861,32"/>
-<area shape="rect" href="hooks_8h.html" title="Scheme hook integration points invoked during I/O events." alt="" coords="1199,79,1273,104"/>
-<area shape="poly" title=" " alt="" coords="862,23,1003,44,1186,76,1185,81,1002,49,861,28"/>
-<area shape="rect" href="templates_8h.html" title="External template file paths populated at runtime." alt="" coords="1397,79,1497,104"/>
-<area shape="poly" title=" " alt="" coords="862,20,1082,40,1383,76,1383,81,1081,46,861,25"/>
-<area shape="rect" href="input_8h.html" title="User input handling (prompt, cursor movement, key processing)." alt="" coords="873,79,940,104"/>
-<area shape="poly" title=" " alt="" coords="833,29,883,68,880,72,830,33"/>
-<area shape="rect" href="init_8h.html" title="Initialization of global editor state." alt="" coords="1521,79,1575,104"/>
-<area shape="poly" title=" " alt="" coords="862,17,973,21,1131,30,1316,48,1507,76,1507,81,1316,53,1131,36,973,27,861,23"/>
-<area shape="rect" title=" " alt="" coords="960,225,1035,251"/>
-<area shape="poly" title=" " alt="" coords="1077,179,1025,219,1022,215,1074,175"/>
-<area shape="rect" title=" " alt="" coords="1059,225,1123,251"/>
-<area shape="poly" title=" " alt="" coords="1093,178,1093,212,1088,212,1088,178"/>
-<area shape="rect" title=" " alt="" coords="1147,225,1231,251"/>
-<area shape="poly" title=" " alt="" coords="1108,175,1164,215,1161,219,1105,180"/>
-<area shape="poly" title=" " alt="" coords="1054,103,1078,139,1073,142,1049,106"/>
-<area shape="poly" title=" " alt="" coords="1298,106,1130,155,1128,150,1296,101"/>
-<area shape="rect" title=" " alt="" coords="1244,152,1327,177"/>
-<area shape="poly" title=" " alt="" coords="1329,106,1303,142,1299,139,1324,103"/>
-<area shape="poly" title=" " alt="" coords="1131,106,1108,142,1103,139,1126,103"/>
-<area shape="poly" title=" " alt="" coords="1214,106,1128,148,1125,144,1211,102"/>
-<area shape="poly" title=" " alt="" coords="1246,103,1272,139,1267,142,1242,106"/>
-<area shape="poly" title=" " alt="" coords="937,102,1054,146,1052,151,935,107"/>
+<area shape="rect" title="File and directory loading/saving implementation." alt="" coords="703,5,791,31"/>
+<area shape="rect" href="ze_8h.html" title="Core editor types, macros, and global state." alt="" coords="198,152,247,177"/>
+<area shape="poly" title=" " alt="" coords="703,23,563,28,384,38,222,55,167,67,138,81,133,89,132,97,142,114,162,131,187,145,184,149,159,135,138,118,127,98,128,87,134,77,165,62,221,50,383,32,563,22,702,18"/>
+<area shape="rect" title=" " alt="" coords="528,79,595,104"/>
+<area shape="poly" title=" " alt="" coords="718,33,605,76,603,71,716,28"/>
+<area shape="rect" title=" " alt="" coords="619,79,687,104"/>
+<area shape="poly" title=" " alt="" coords="733,33,681,72,678,68,730,29"/>
+<area shape="rect" title=" " alt="" coords="711,79,782,104"/>
+<area shape="poly" title=" " alt="" coords="749,31,749,65,744,65,744,31"/>
+<area shape="rect" title=" " alt="" coords="806,79,877,104"/>
+<area shape="poly" title=" " alt="" coords="763,29,816,68,813,72,760,33"/>
+<area shape="rect" title=" " alt="" coords="901,79,979,104"/>
+<area shape="poly" title=" " alt="" coords="779,28,897,71,895,76,777,33"/>
+<area shape="rect" title=" " alt="" coords="1004,79,1089,104"/>
+<area shape="poly" title=" " alt="" coords="792,27,991,74,990,79,790,32"/>
+<area shape="rect" title=" " alt="" coords="1113,79,1188,104"/>
+<area shape="poly" title=" " alt="" coords="791,23,926,44,1100,76,1099,81,925,50,791,29"/>
+<area shape="rect" title=" " alt="" coords="1212,79,1284,104"/>
+<area shape="poly" title=" " alt="" coords="792,21,966,41,1199,76,1198,81,965,46,791,26"/>
+<area shape="rect" title=" " alt="" coords="1309,79,1371,104"/>
+<area shape="poly" title=" " alt="" coords="791,19,1004,37,1147,53,1295,76,1295,81,1146,59,1004,42,791,25"/>
+<area shape="rect" href="row_8h.html" title="Row data structure manipulation and conversions." alt="" coords="147,79,205,104"/>
+<area shape="poly" title=" " alt="" coords="703,25,497,42,361,59,219,82,218,76,360,53,497,37,702,19"/>
+<area shape="rect" href="status_8h.html" title="Status/message bar helpers and Scheme binding." alt="" coords="429,79,504,104"/>
+<area shape="poly" title=" " alt="" coords="703,33,518,80,517,75,702,28"/>
+<area shape="rect" href="syntax_8h.html" title="Syntax highlighting engine and language selection." alt="" coords="229,79,307,104"/>
+<area shape="poly" title=" " alt="" coords="703,27,539,48,321,81,321,76,538,42,702,22"/>
+<area shape="rect" href="hooks_8h.html" title="Scheme hook integration points invoked during I/O events." alt="" coords="331,79,405,104"/>
+<area shape="poly" title=" " alt="" coords="703,29,419,81,418,76,702,24"/>
+<area shape="rect" href="templates_8h.html" title="External template file paths populated at runtime." alt="" coords="1395,79,1495,104"/>
+<area shape="poly" title=" " alt="" coords="791,19,1039,38,1207,55,1382,76,1382,81,1207,60,1038,44,791,25"/>
+<area shape="rect" href="input_8h.html" title="User input handling (prompt, cursor movement, key processing)." alt="" coords="5,79,72,104"/>
+<area shape="poly" title=" " alt="" coords="702,24,443,42,268,58,91,81,86,82,85,77,90,76,267,53,442,36,702,19"/>
+<area shape="rect" href="init_8h.html" title="Initialization of global editor state." alt="" coords="1519,79,1574,104"/>
+<area shape="poly" title=" " alt="" coords="791,17,913,20,1088,28,1294,46,1506,76,1505,81,1293,51,1088,34,912,25,791,22"/>
+<area shape="rect" title=" " alt="" coords="92,225,167,251"/>
+<area shape="poly" title=" " alt="" coords="209,179,157,219,154,215,206,175"/>
+<area shape="rect" title=" " alt="" coords="191,225,255,251"/>
+<area shape="poly" title=" " alt="" coords="225,178,225,212,220,212,220,178"/>
+<area shape="rect" title=" " alt="" coords="279,225,363,251"/>
+<area shape="poly" title=" " alt="" coords="240,175,296,215,293,219,237,180"/>
+<area shape="poly" title=" " alt="" coords="186,103,210,139,205,142,181,106"/>
+<area shape="poly" title=" " alt="" coords="430,106,262,155,260,150,428,101"/>
+<area shape="rect" title=" " alt="" coords="376,152,459,177"/>
+<area shape="poly" title=" " alt="" coords="461,106,435,142,431,139,456,103"/>
+<area shape="poly" title=" " alt="" coords="263,106,240,142,235,139,258,103"/>
+<area shape="poly" title=" " alt="" coords="346,106,260,148,257,144,343,102"/>
+<area shape="poly" title=" " alt="" coords="378,103,404,139,399,142,374,106"/>
+<area shape="poly" title=" " alt="" coords="69,102,186,146,184,151,67,107"/>
 </map>
 </div>
 </div><table class="memberdecls">
